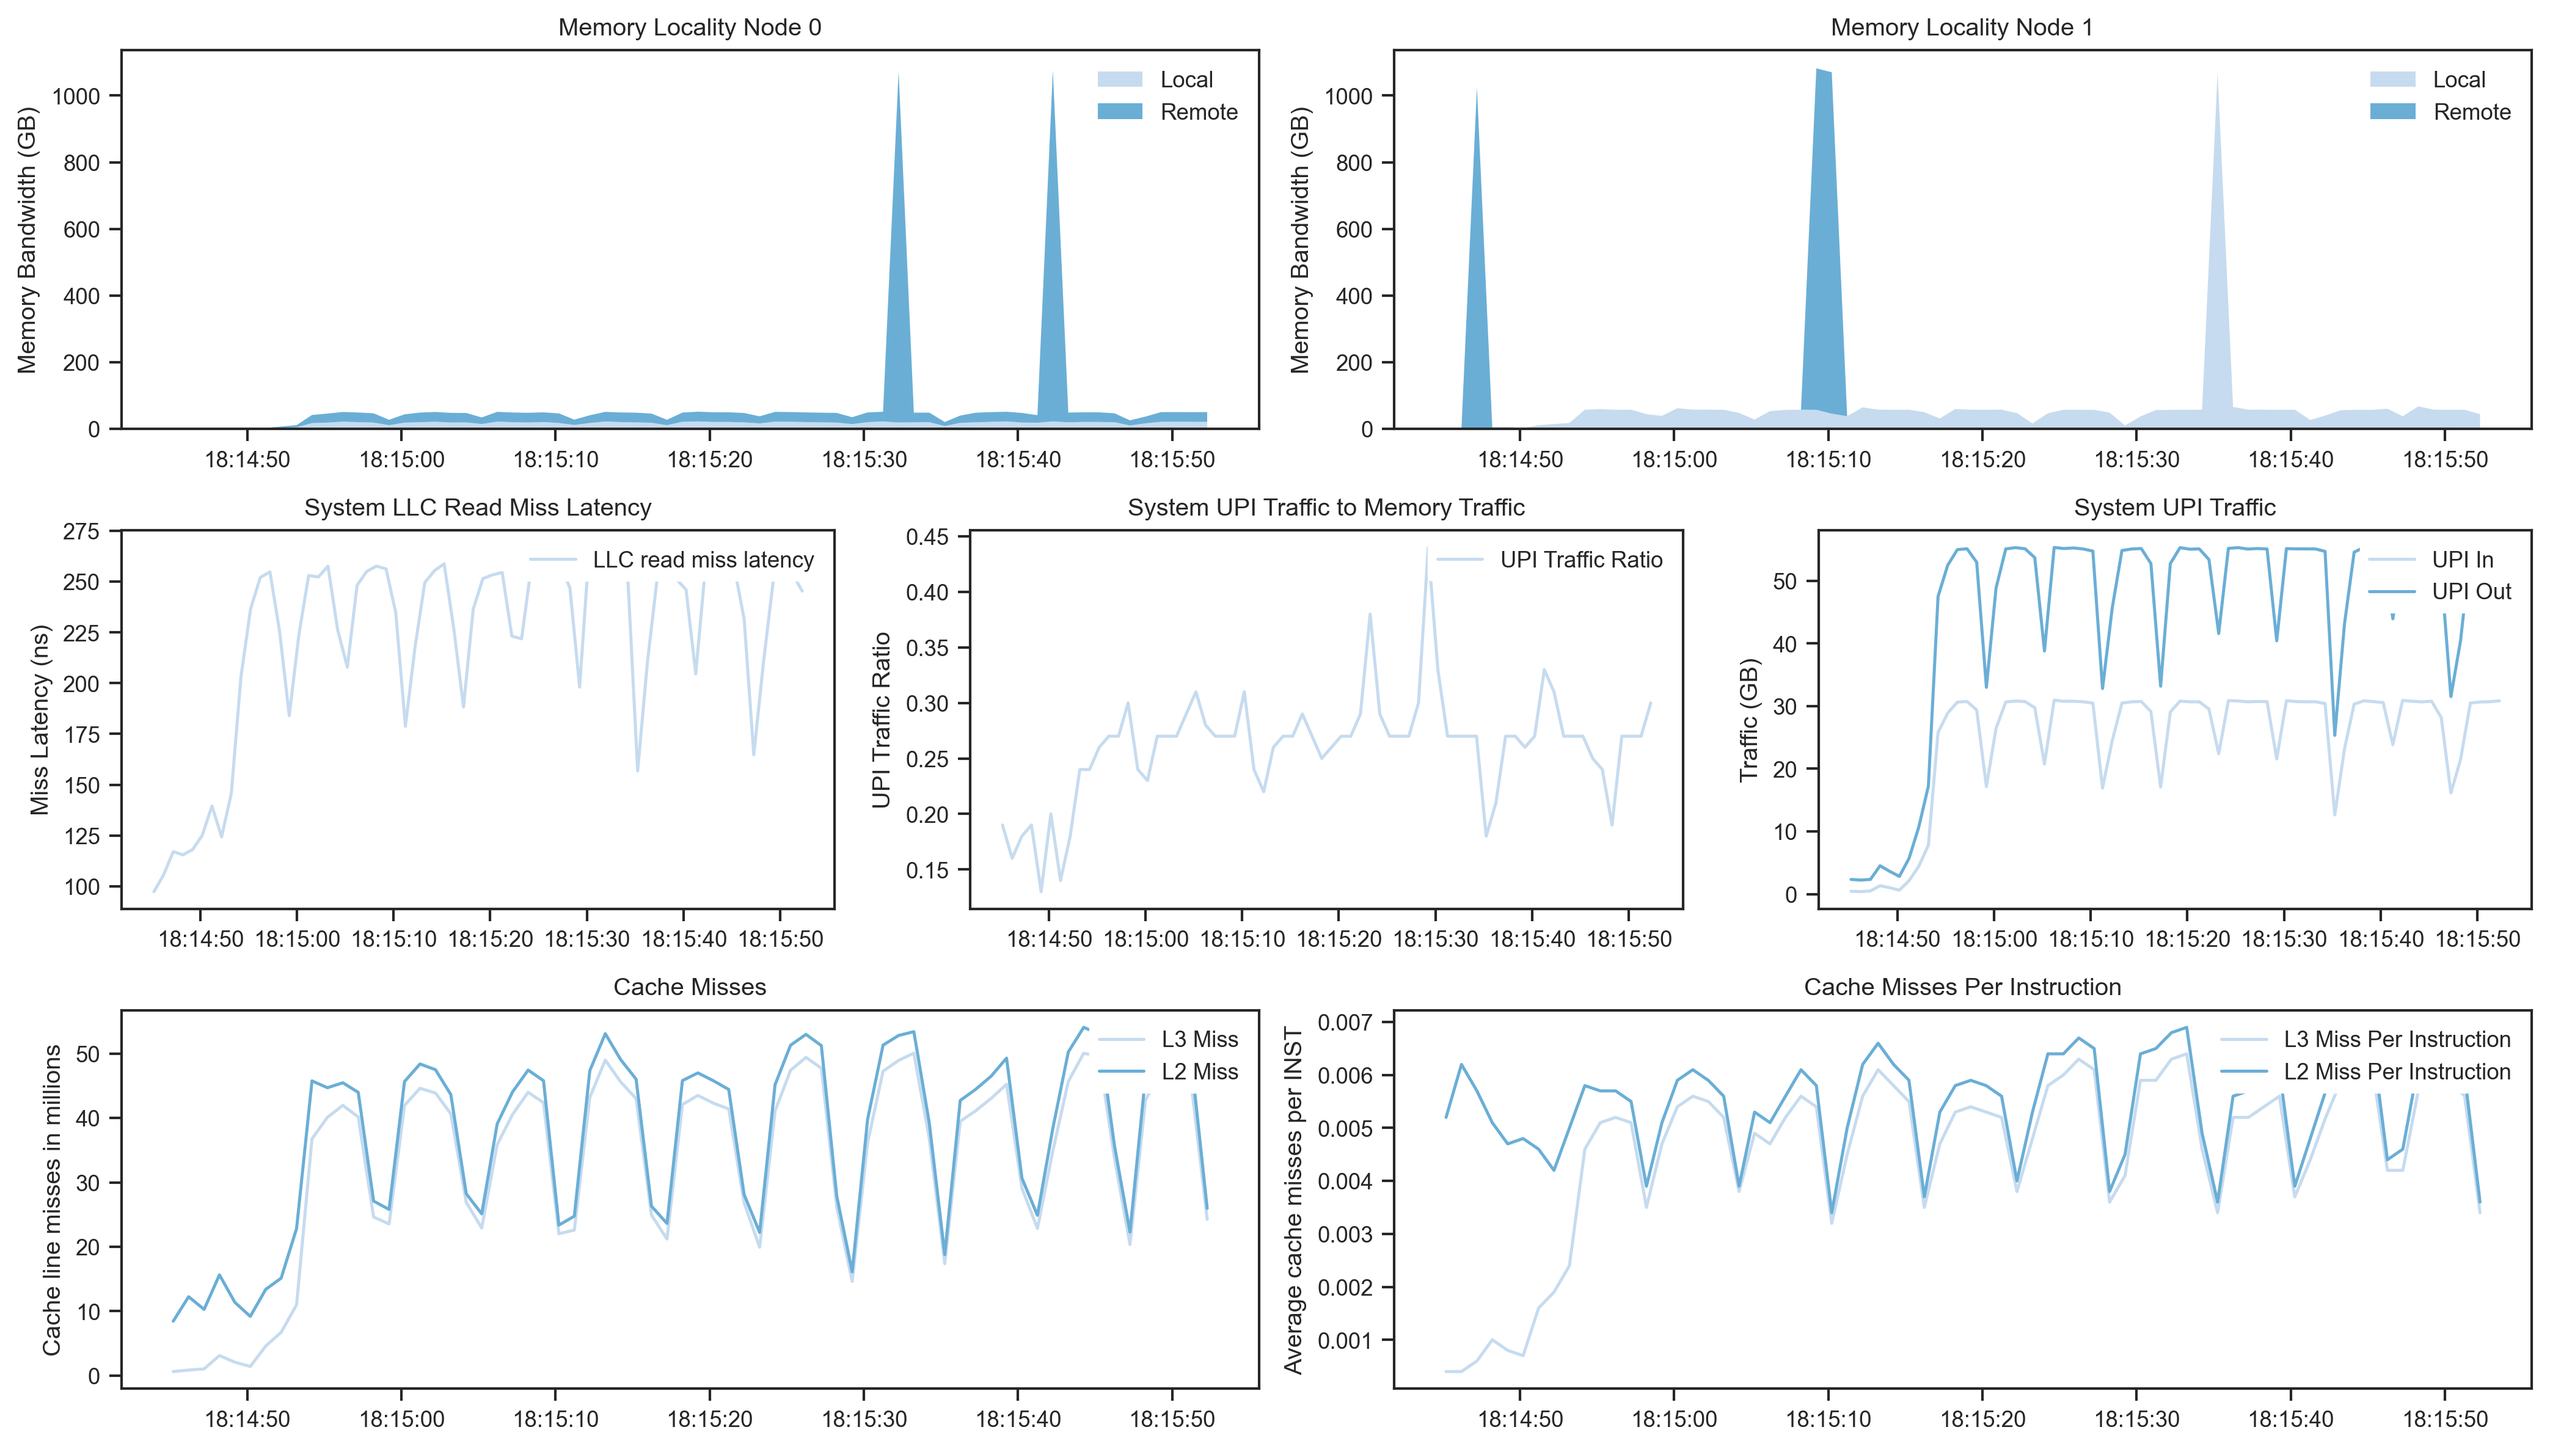
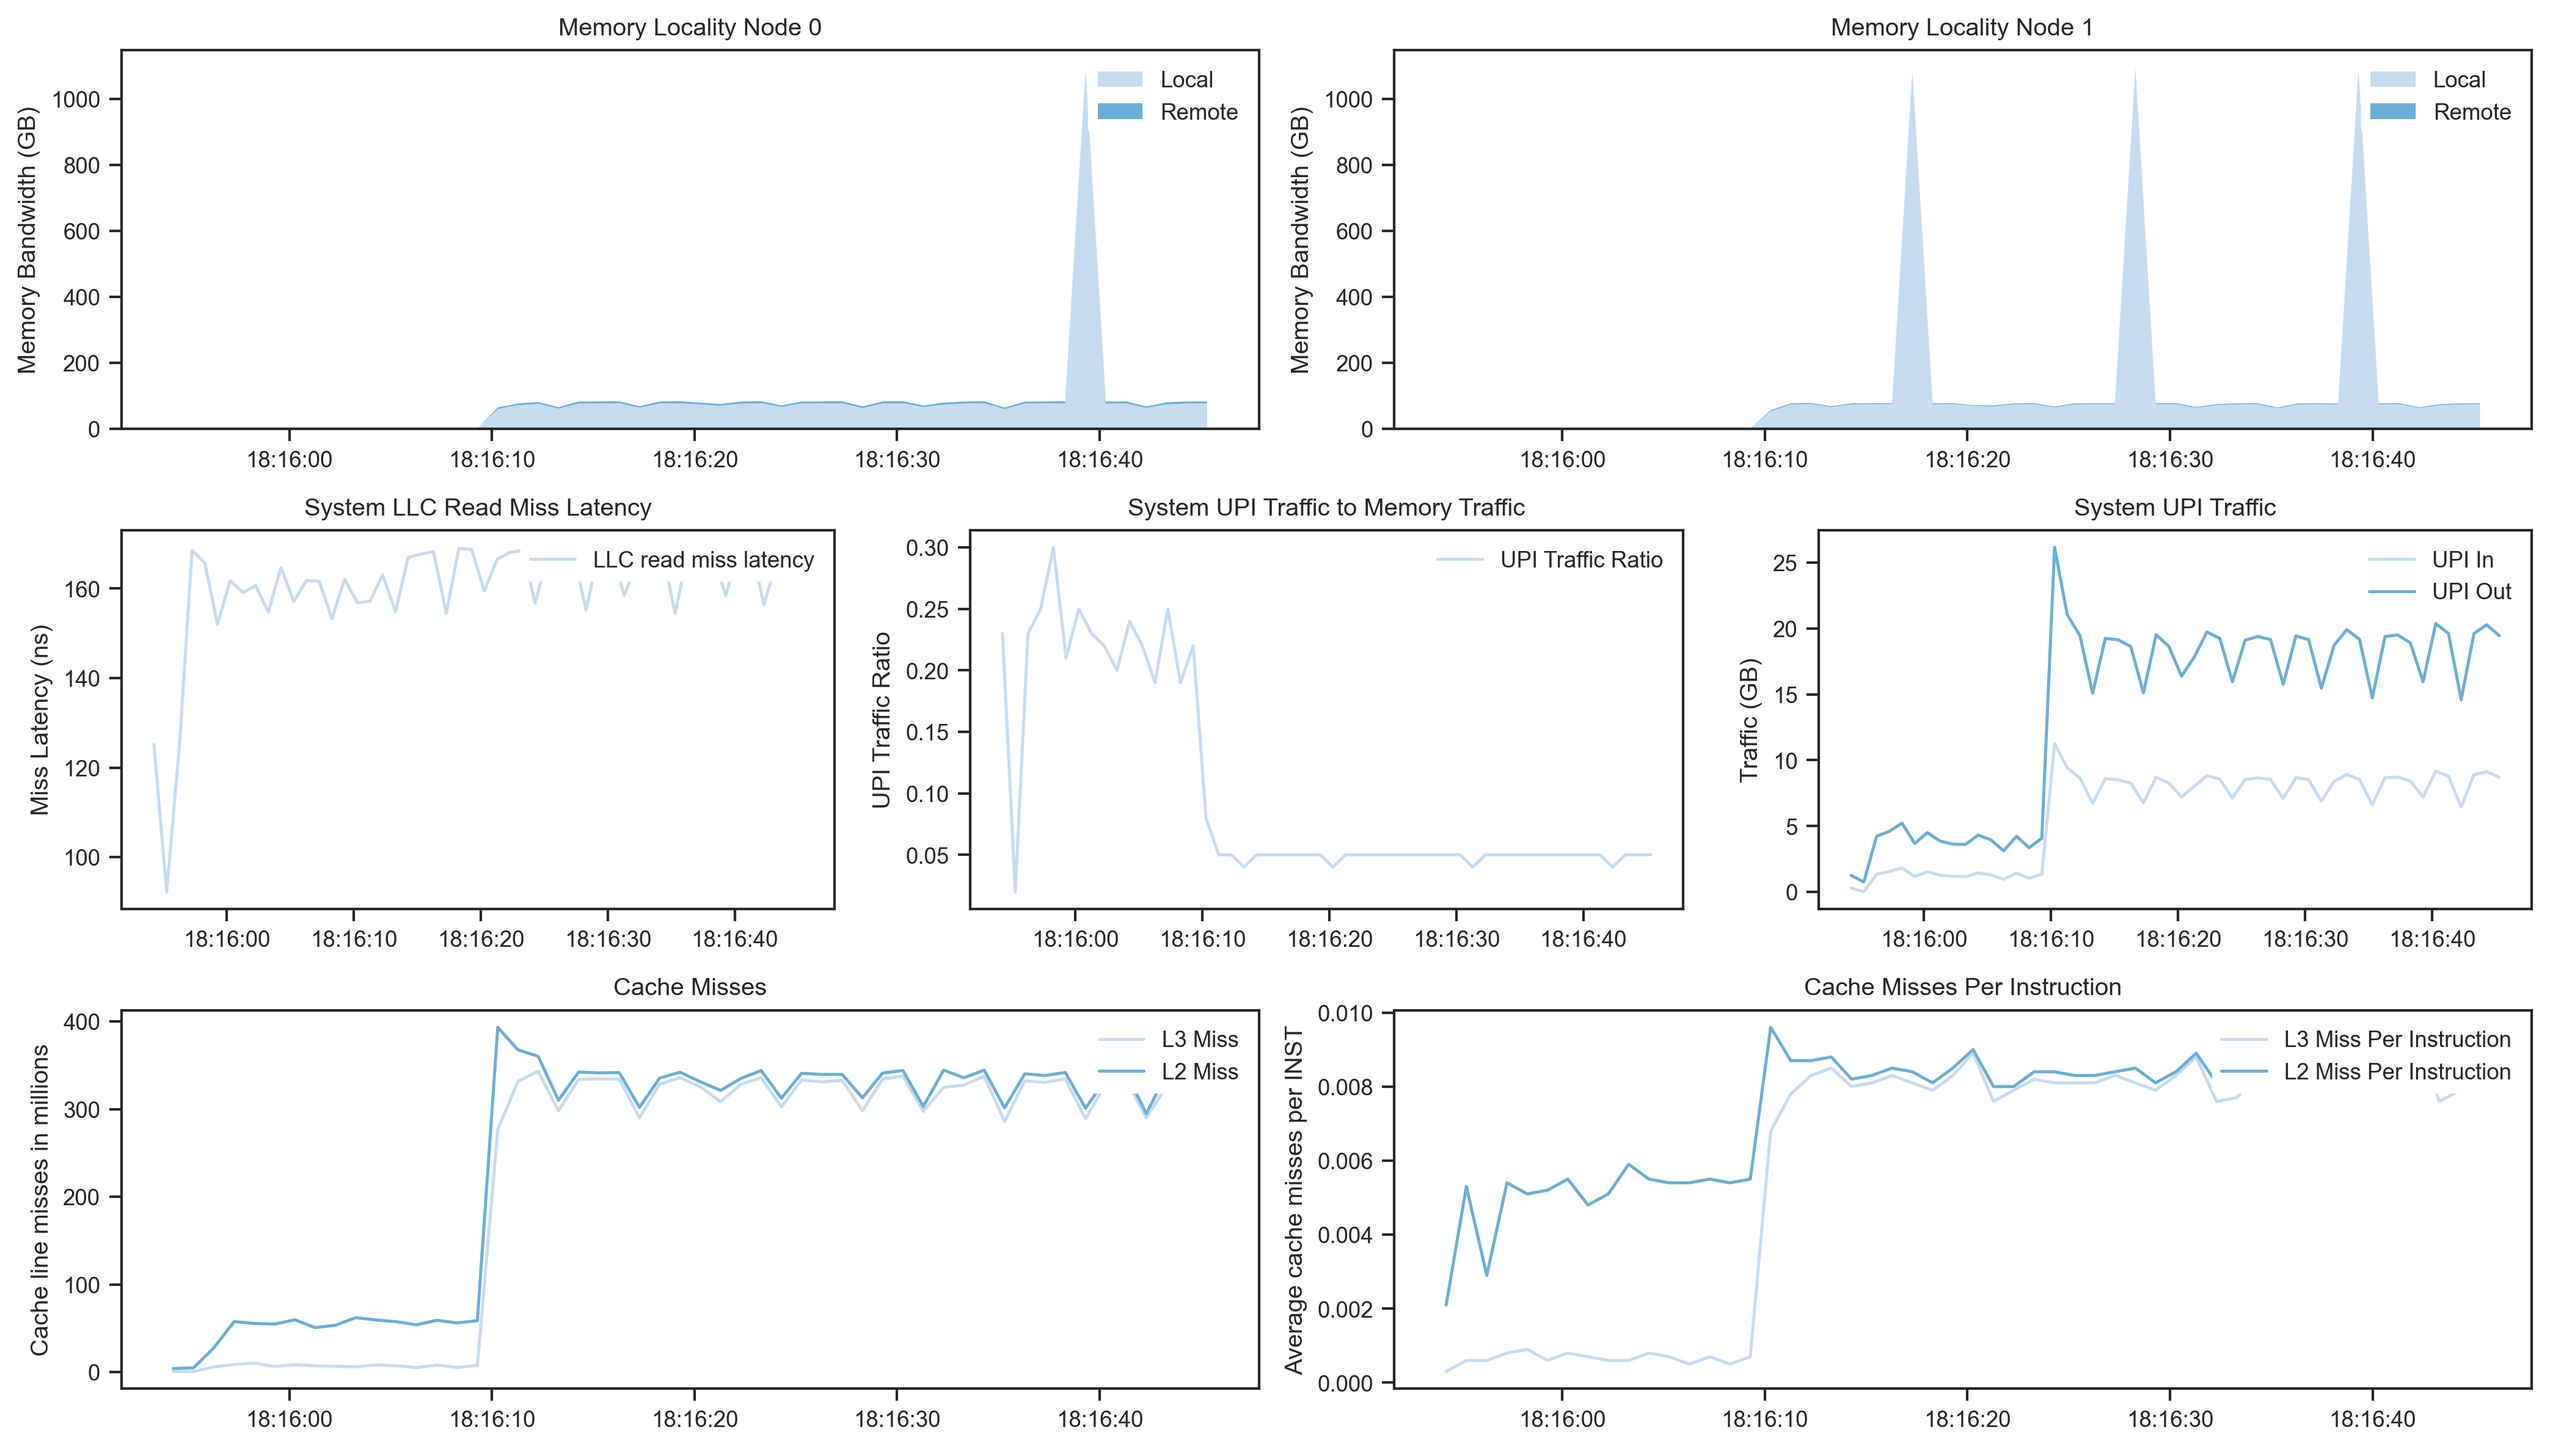
fix: qemu NUMA node bind, disable asynchronous page fault, remove ann warmup points

diff --git a/plot_ann.py b/plot_ann.py
@@ -81,10 +81,16 @@ def get_data(datasets) -> tuple[pd.DataFrame, pd.DataFrame]:
                     f"Warning: Details CSV {details_csv_path} not found for {dataset}"
                 )
 
-    df_main = pd.concat(data_main, ignore_index=True)
+    # df_main = pd.concat(data_main, ignore_index=True)
     df_details = pd.concat(data_details, ignore_index=True)
 
-    return df_main, df_details
+    agg_df = pd.DataFrame(
+        df_details[df_details["run_id"] != 1]
+        .groupby(["arch", "runner_name", "dataset", "tag"], as_index=False)
+        .agg(mean_qps=("qps", "mean"), std_qps=("qps", "std"))
+    )
+
+    return agg_df, df_details
 
 
 def normalize_data(df_main: pd.DataFrame) -> pd.DataFrame:

diff --git a/plot_monitoring.py b/plot_monitoring.py
@@ -9,10 +9,10 @@ RESULT_DIR = config.RESULT_DIR
 
 TIME_WINDOWS = {
     "ann": [
-        ("2025-07-30T15:11:16.167677", "2025-07-30T15:12:29.092871"),
+        ("2025-07-30T15:12:29.190499", "2025-07-30T15:13:39.571588"),
     ],
     "ann-repl": [
-        ("2025-07-30T18:14:44.566103", "2025-07-30T18:15:52.926404"),
+        ("2025-07-30T18:15:53.477247", "2025-07-30T18:16:45.967450"),
     ],
     "rocksdb": [
         ("2025-07-30T15:18:07.427021", "2025-07-30T15:20:08.759129"),
